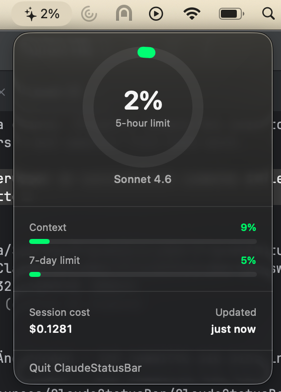
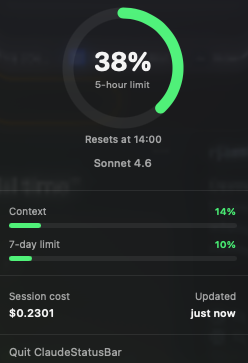
feat(popover): show 5-hour limit reset time

Changed region(s): [[0.0, 0.0, 1.0, 1.0], [0.7056, 0.4545, 0.8185, 0.4848], [0.1129, 0.2121, 0.1976, 0.2424]]

diff --git a/Sources/ClaudeStatusBar/TokenUsageView.swift b/Sources/ClaudeStatusBar/TokenUsageView.swift
@@ -29,6 +29,11 @@ private struct FilledView: View {
                         centerLabel: fiveHour.formattedPct,
                         ringLabel: "5-hour limit"
                     )
+                    if let resetTime = resetTime(fiveHour.resetsAt) {
+                        Text("Resets at \(resetTime)")
+                            .font(.caption2)
+                            .foregroundStyle(.secondary)
+                    }
                 } else {
                     RingView(
                         value: usage.usedPercent / 100,
@@ -102,6 +107,14 @@ private struct FilledView: View {
             .padding(.vertical, 10)
         }
         .frame(width: 260)
+    }
+
+    private func resetTime(_ iso: String?) -> String? {
+        guard let iso, !iso.isEmpty else { return nil }
+        let date = ResetFormatter.fractional.date(from: iso)
+                ?? ResetFormatter.standard.date(from: iso)
+        guard let date else { return nil }
+        return ResetFormatter.output.string(from: date)
     }
 
     private func relativeTime(from date: Date?) -> String {
@@ -182,6 +195,20 @@ private struct UsageBar: View {
 }
 
 // MARK: - Helpers
+
+private enum ResetFormatter {
+    static let standard = ISO8601DateFormatter()
+    static let fractional: ISO8601DateFormatter = {
+        let f = ISO8601DateFormatter()
+        f.formatOptions = [.withInternetDateTime, .withFractionalSeconds]
+        return f
+    }()
+    static let output: DateFormatter = {
+        let df = DateFormatter()
+        df.setLocalizedDateFormatFromTemplate("jmm")
+        return df
+    }()
+}
 
 private func statusColor(_ pct: Double) -> Color {
     switch pct {
